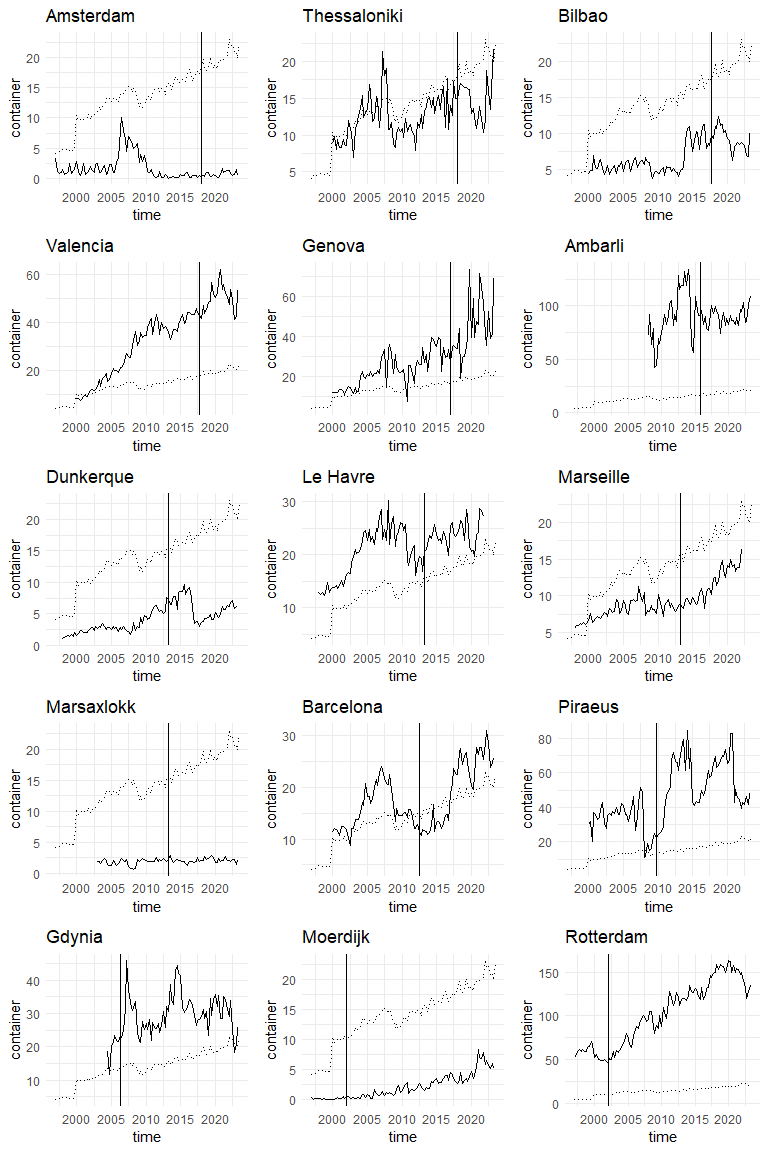
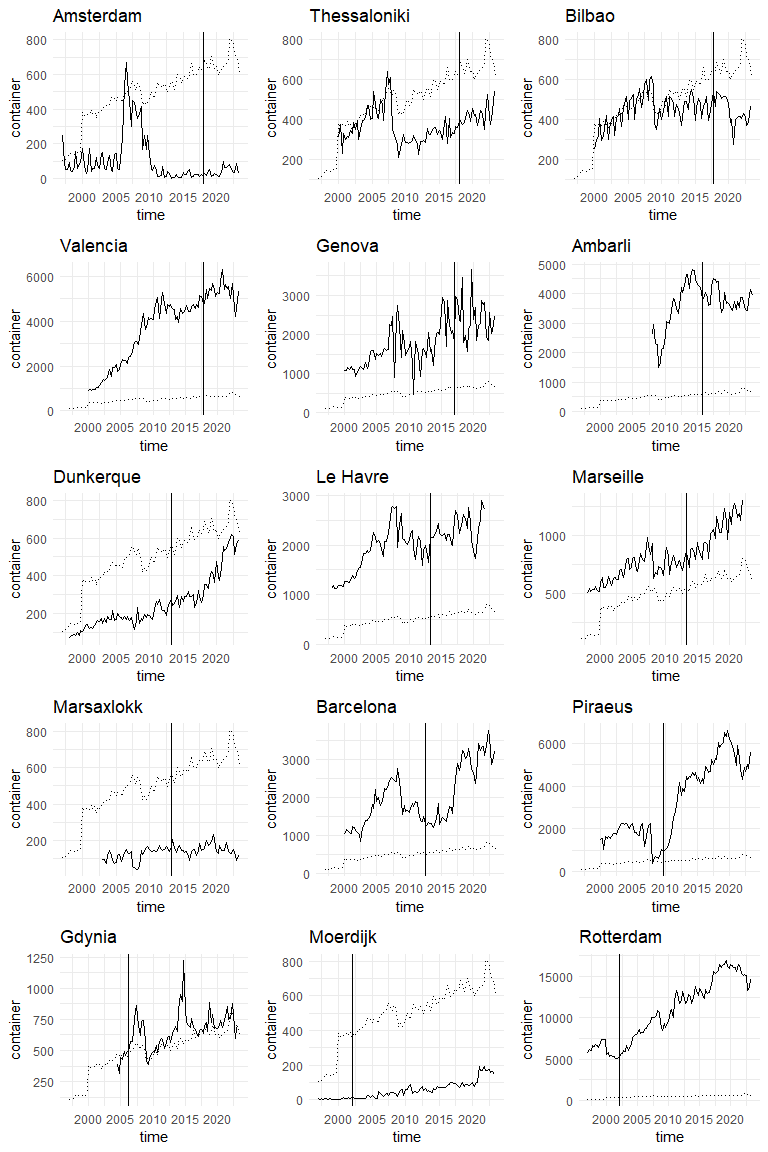
extension of estimation by event study and placebo test

diff --git a/Descriptives.md b/Descriptives.md
@@ -88,7 +88,7 @@ Originally, we found 26 ports which were at some point at least partly owned by 
 - Two fall below the average throughput threshold of 100 thousand tonnes (Montoir, Stockholm)
 - Five ports were either always treated (Duisburg, Felixtowe, Thamesport, Harwich) or never treated (Hamburg)
 
-The following graph display all 14 treated ports and their annual container throughput. The vertical lines indicate treatment time. Solid line represent the container throughput of the respective port. The dashed line represents the average throughput of the control group. Note that not all ports report the throughput for every period. This might influence the average.
+The following graph display all 14 treated ports and their annual container throughput as a share of their mean container throughput. The vertical lines indicate treatment time. Solid line represent the container throughput of the respective port. The dashed line represents the average throughput of the control group. Note that not all ports report the throughput for every period. This might influence the average.
 
 ![](Descriptives_files/figure-html/unnamed-chunk-17-1.png)<!-- -->
 
